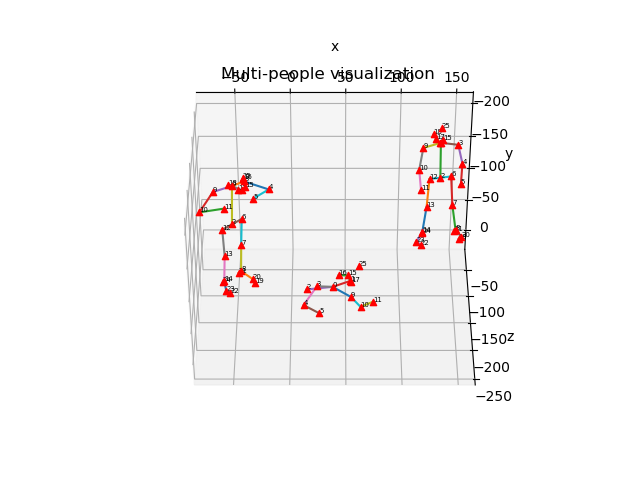
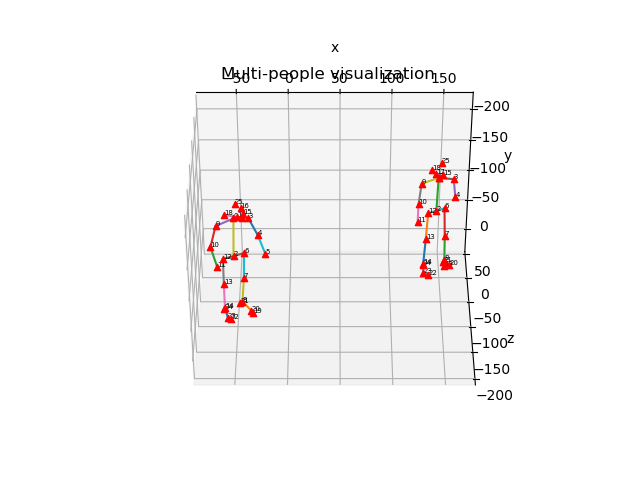
examples replaced

Changed region(s): [[0.2812, 0.125, 0.8125, 0.8125], [0.75, 0.8125, 0.8125, 0.8438], [0.5, 0.0938, 0.5312, 0.125]]

diff --git a/visualization/visualization.py b/visualization/visualization.py
@@ -33,11 +33,11 @@ def multi_people_plot(ids, joints):
     return 0
 
 def main():
-    file_name = 'body3DScene_00000100.json'
+    file_name = 'body3DScene_00001000.json'
     path = '../Dataset/Dome_3D/190503_imu5/op25_body3DPSRecon_json_normCoord/0140'
     ids, joints = utils.open_json_file(os.path.join(path, file_name))
     multi_people_plot(ids, joints)
-    # single_person_plot(ids, joints)
+    single_person_plot(ids, joints)
     plt.show()
 
 if __name__ == '__main__':

diff --git a/visualization/utils.py b/visualization/utils.py
@@ -47,7 +47,7 @@ def set_range(x, y, z, ax):
     x = np.array(tmp_x)
     y = np.array(tmp_y)
     z = np.array(tmp_z)
-    max_range = np.array([x.max()-x.min(), y.max()-y.min(), z.max()-z.min()]).max() / 2.0
+    max_range = 1.1 * np.array([x.max()-x.min(), y.max()-y.min(), z.max()-z.min()]).max() / 2.0
     mid_x = (x.max() + x.min())/2.0
     mid_y = (y.max() + y.min())/2.0
     mid_z = (z.max() + z.min())/2.0
